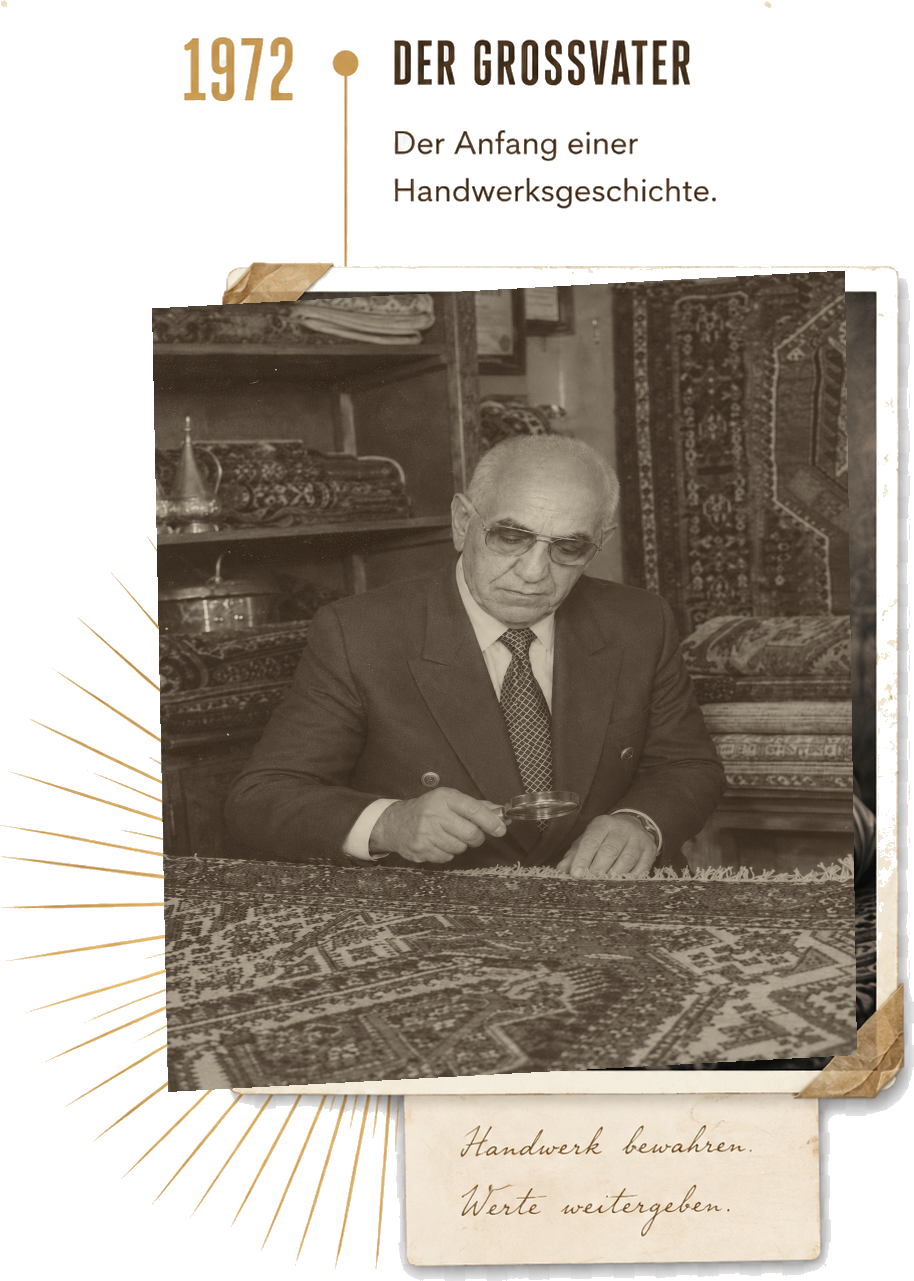
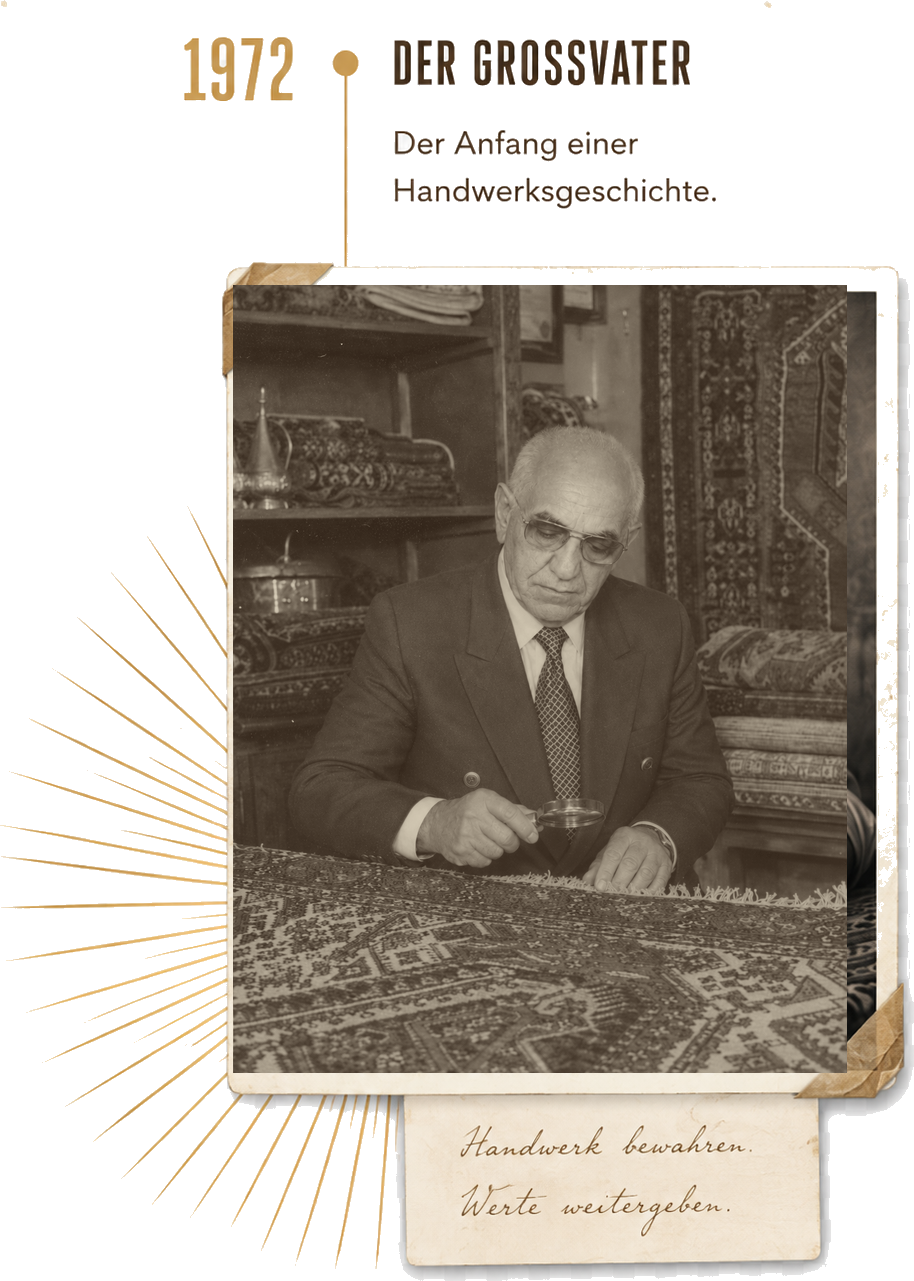
Atelier: Familienfotos starr (ohne Perspektiv-Warp) exakt in Platzhalter eingepasst; Grossvater gerade, Kind leicht geneigt wie Original

Changed region(s): [[0.1532, 0.1874, 0.9497, 0.8743]]

diff --git a/index.html b/index.html
@@ -389,9 +389,9 @@
   </div>
   <div class="ch-scroller">
     <div class="ch-stage">
-      <img class="ch-el ch-grand" src="assets/img/heritage/grand.png?v=3" alt="1972 – Der Grossvater: der Anfang einer Handwerksgeschichte" loading="lazy" decoding="async">
+      <img class="ch-el ch-grand" src="assets/img/heritage/grand.png?v=4" alt="1972 – Der Grossvater: der Anfang einer Handwerksgeschichte" loading="lazy" decoding="async">
       <img class="ch-el ch-handwerk" src="assets/img/heritage/handwerk.png" alt="Handwerk seit Generationen – das Atelier Soltani" loading="lazy" decoding="async">
-      <img class="ch-el ch-kind" src="assets/img/heritage/kind.png?v=3" alt="Kindheit – die ersten Schritte: zwischen Teppichen aufgewachsen" loading="lazy" decoding="async">
+      <img class="ch-el ch-kind" src="assets/img/heritage/kind.png?v=4" alt="Kindheit – die ersten Schritte: zwischen Teppichen aufgewachsen" loading="lazy" decoding="async">
       <img class="ch-el ch-fabio" src="assets/img/heritage/fabio.png?v=3" alt="Fabio Soltani in seinem Atelier" loading="lazy" decoding="async">
       <div class="ch-el ch-today">
         <span class="ch-today-eb">Heute</span>
